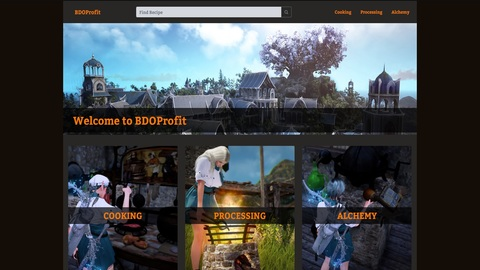
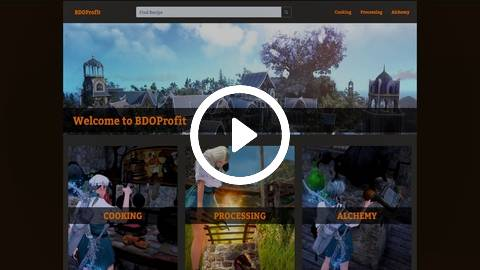
Video Player modal was not properly popping out. Implemented React Portal to fix the issue.
Need to make the videos and link them.

diff --git a/src/Components/Projects/projects-container.jsx b/src/Components/Projects/projects-container.jsx
@@ -14,6 +14,7 @@ class ProjectsContainer extends Component {
         liveLink: "https://www.bdoprofit.com",
         codeLink: "https://github.com/ejwoulfe/BDOProfit",
         image: bdoprofitStatic,
+        videoID: "Bwb5D-ILhAQ",
         description: [
           "BDO Profit is based off the MMORPG Black Desert Online. The website is a tool for players who need help calculating the costs and profits of an ingame recipe or craft.",
           "The user searches for their desired recipe, either using the search bar or navigating the professions recipe table/database. Once the desired recipe is found a page will display all the required materials and their quanities.",
@@ -22,10 +23,10 @@ class ProjectsContainer extends Component {
         ],
         languages: [
           "HTML",
-          "CSS",
+          "SASS",
           "Vanilla JS",
+          "JQuery",
           "Bootstrap",
-          "Sass",
           "PHP",
           "MySQL"
         ]
@@ -35,22 +36,24 @@ class ProjectsContainer extends Component {
         liveLink: "https://pensive-visvesvaraya-5f7d28.netlify.com/",
         codeLink: "https://github.com/ejwoulfe/lol-champions",
         image: lolchampionsStatic,
+        videoID: "6Dh-RL__uN4",
         description: [
           "LoL Champions is based off the popular MOBA game, League of Legends. This website is used to help a beginner player get a better understanding of the game and its champions.",
           "It shows which champions are free that week, which of them are being most played in all tiers, and detailed information about any champion.",
           "All of this information was retrieved by using the offical Riot API."
         ],
-        languages: ["ReactJS", "React-Router", "APIs", "Bootstrap", "Sass"]
+        languages: ["ReactJS", "React-Router", "APIs", "Bootstrap", "SCSS"]
       },
       personalPortfolio: {
         title: "Personal Portfolio",
         liveLink: "https://edwoulfe.com",
         codeLink: "https://github.com/ejwoulfe/personal_portfolio",
         image: personalPortfolioStatic,
+        videoID: "cNplZrRSjeI",
         description: [
           "This is my own personal website, currently used as a hub for all my projects, a bit about me, and contact information. Currently offered in a light or dark theme, Enjoy!"
         ],
-        languages: ["ReactJS", "Bootstrap", "Sass"]
+        languages: ["ReactJS", "React Portals", "Bootstrap", "SCSS"]
       }
     }
   };

diff --git a/src/Components/Projects/projects-component.jsx b/src/Components/Projects/projects-component.jsx
@@ -3,8 +3,17 @@ import { Row } from "react-bootstrap";
 import Fade from "react-reveal/Fade";
 import { FontAwesomeIcon } from "@fortawesome/react-fontawesome";
 import { faArrowDown } from "@fortawesome/free-solid-svg-icons";
+import ModalVideoPlayer from "./modal-video-player";
 
 class ProjectsComponent extends Component {
+  state = {
+    showModal: false
+  };
+
+  toggleModal = () => {
+    this.setState({ showModal: !this.state.showModal });
+  };
+
   render() {
     const builtWithList = this.props.project.languages.map(language => {
       return <li key={language}>{language}</li>;
@@ -54,9 +63,8 @@ class ProjectsComponent extends Component {
                 className="arrow_down"
                 size="lg"
               />
-              <div className="computer">
+              <div className="video_background">
                 <div
-                  id="bdo_profit_image"
                   className="website_image_container"
                   style={{
                     backgroundImage: `url(${this.props.project.image})`,
@@ -66,10 +74,14 @@ class ProjectsComponent extends Component {
                     width: "480px",
                     height: "270px"
                   }}
+                  onClick={this.toggleModal}
                 />
+                <ModalVideoPlayer
+                  open={this.state.showModal}
+                  onClose={this.toggleModal}
+                  videoID={this.props.project.videoID}
+                ></ModalVideoPlayer>
               </div>
-              <div className="stand"></div>
-              <div className="keyboard"></div>
             </div>
             <div className="col-2 filler_col" />
           </Row>

diff --git a/src/Components/Projects/projects.scss b/src/Components/Projects/projects.scss
@@ -46,33 +46,16 @@
 
   .website_image_container {
     border-radius: 10px;
-    background-color: black;
   }
-  .computer {
-    background-color: #666666;
+
+  .video_background {
     width: 500px;
     height: 290px;
     padding-top: 10px;
     border-radius: 15px;
-    -webkit-box-shadow: 4px 5px 3px 1px rgba(0, 0, 0, 0.75);
-    -moz-box-shadow: 4px 5px 3px 1px rgba(0, 0, 0, 0.75);
-    box-shadow: 4px 5px 3px 1px rgba(0, 0, 0, 0.75);
     margin: auto;
-    border: 2px solid black;
   }
 
-  #bdo_profit_image {
-    &:hover {
-    }
-  }
-  #lol_champions_image {
-    &:hover {
-    }
-  }
-  #personal_portfolio_image {
-    &:hover {
-    }
-  }
   .tech_stack {
     h5 {
       margin-top: 25px;

diff --git a/src/Components/Projects/modal-video-player.jsx b/src/Components/Projects/modal-video-player.jsx
@@ -1,0 +1,21 @@
+import ModalVideo from "react-modal-video";
+import ReactDOM from "react-dom";
+import React from "react";
+import "../../../node_modules/react-modal-video/scss/modal-video.scss";
+
+let ModalVideoPlayer = ({ onClose, open, videoID }) =>
+  open
+    ? ReactDOM.createPortal(
+        <div>
+          <ModalVideo
+            channel="youtube"
+            isOpen={true}
+            videoId={videoID}
+            onClose={onClose}
+          />
+        </div>,
+        document.body
+      )
+    : null;
+
+export default ModalVideoPlayer;

diff --git a/public/index.html b/public/index.html
@@ -24,5 +24,6 @@
   <body>
     <noscript>You need to enable JavaScript to run this app.</noscript>
     <div id="root"></div>
+    <div id="modal"></div>
   </body>
 </html>
